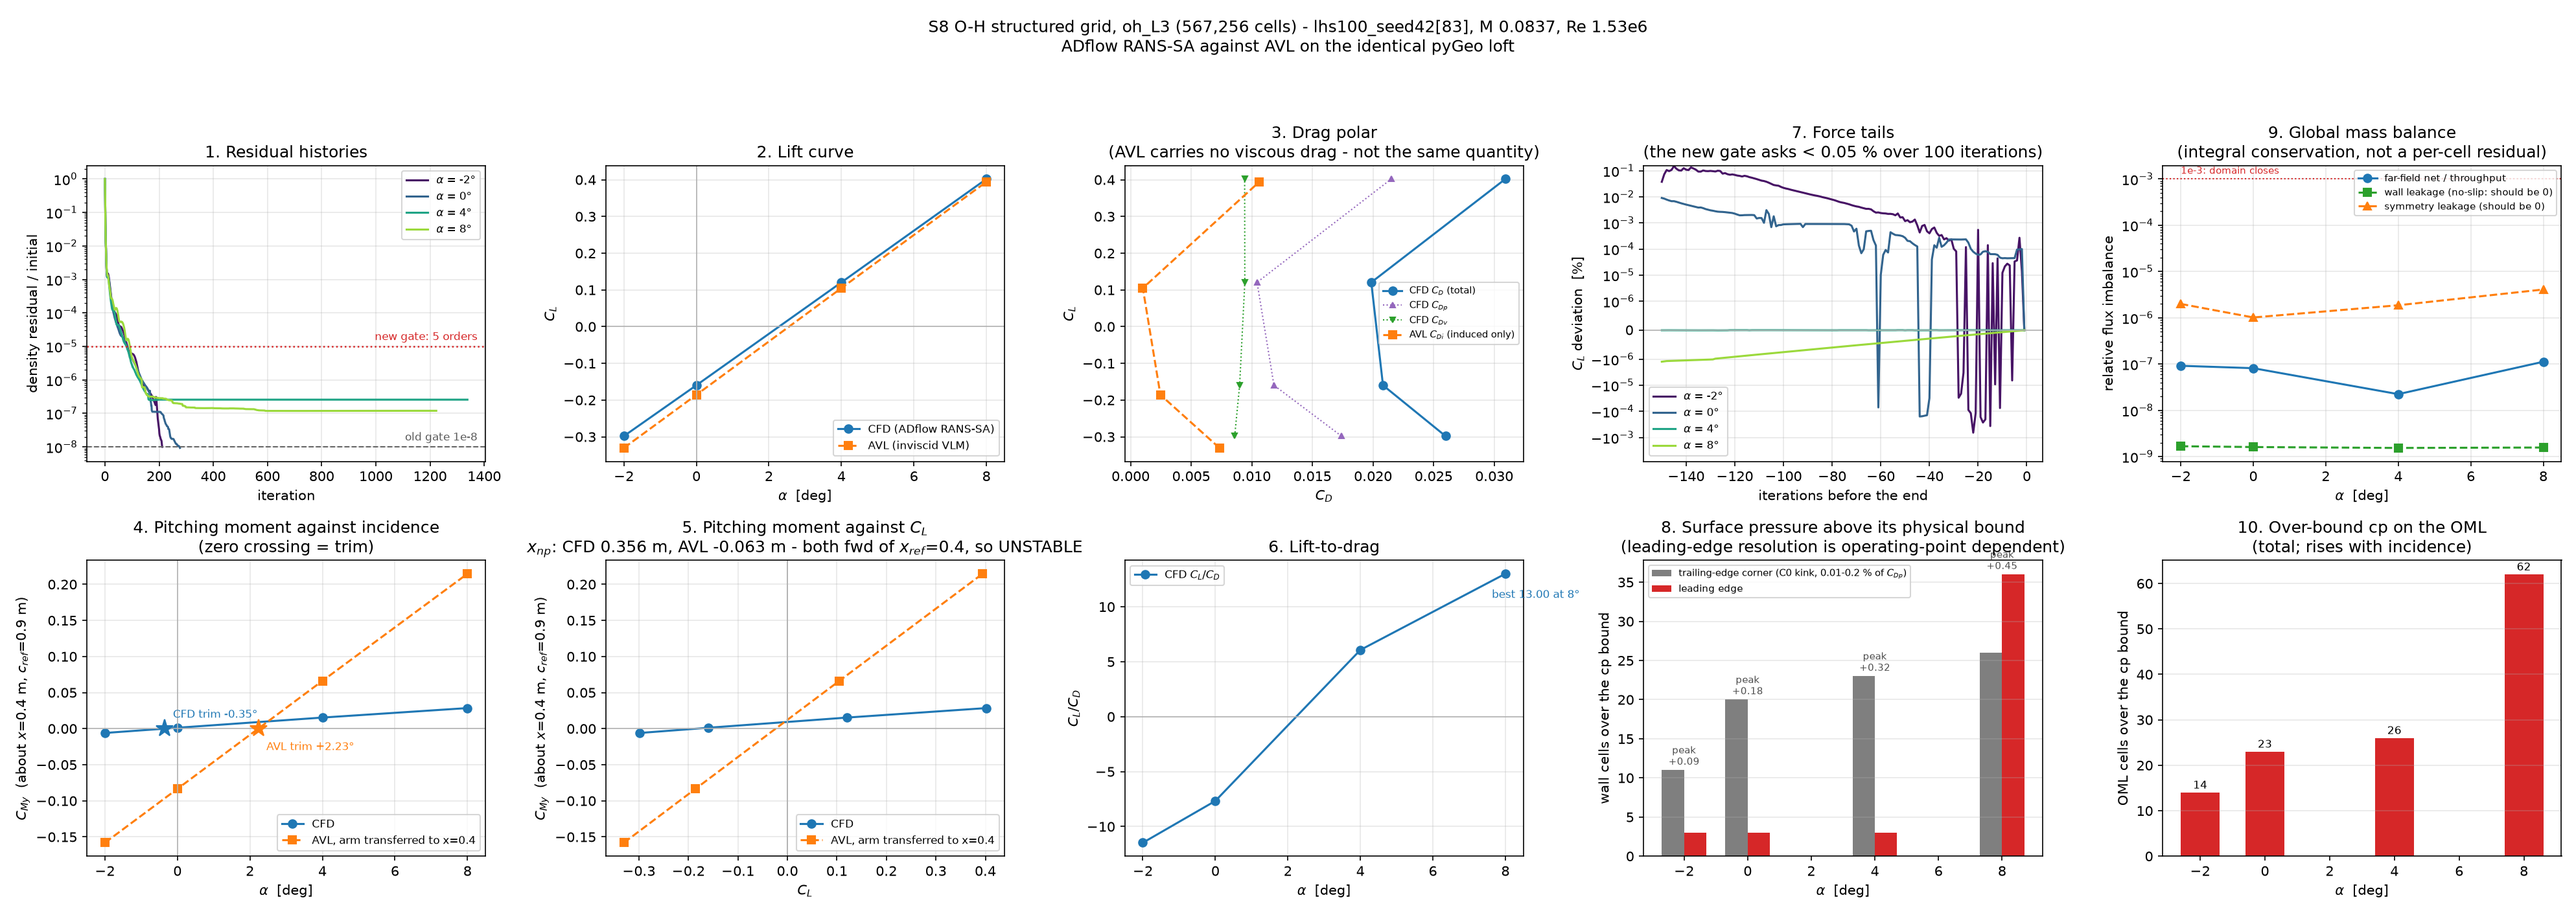
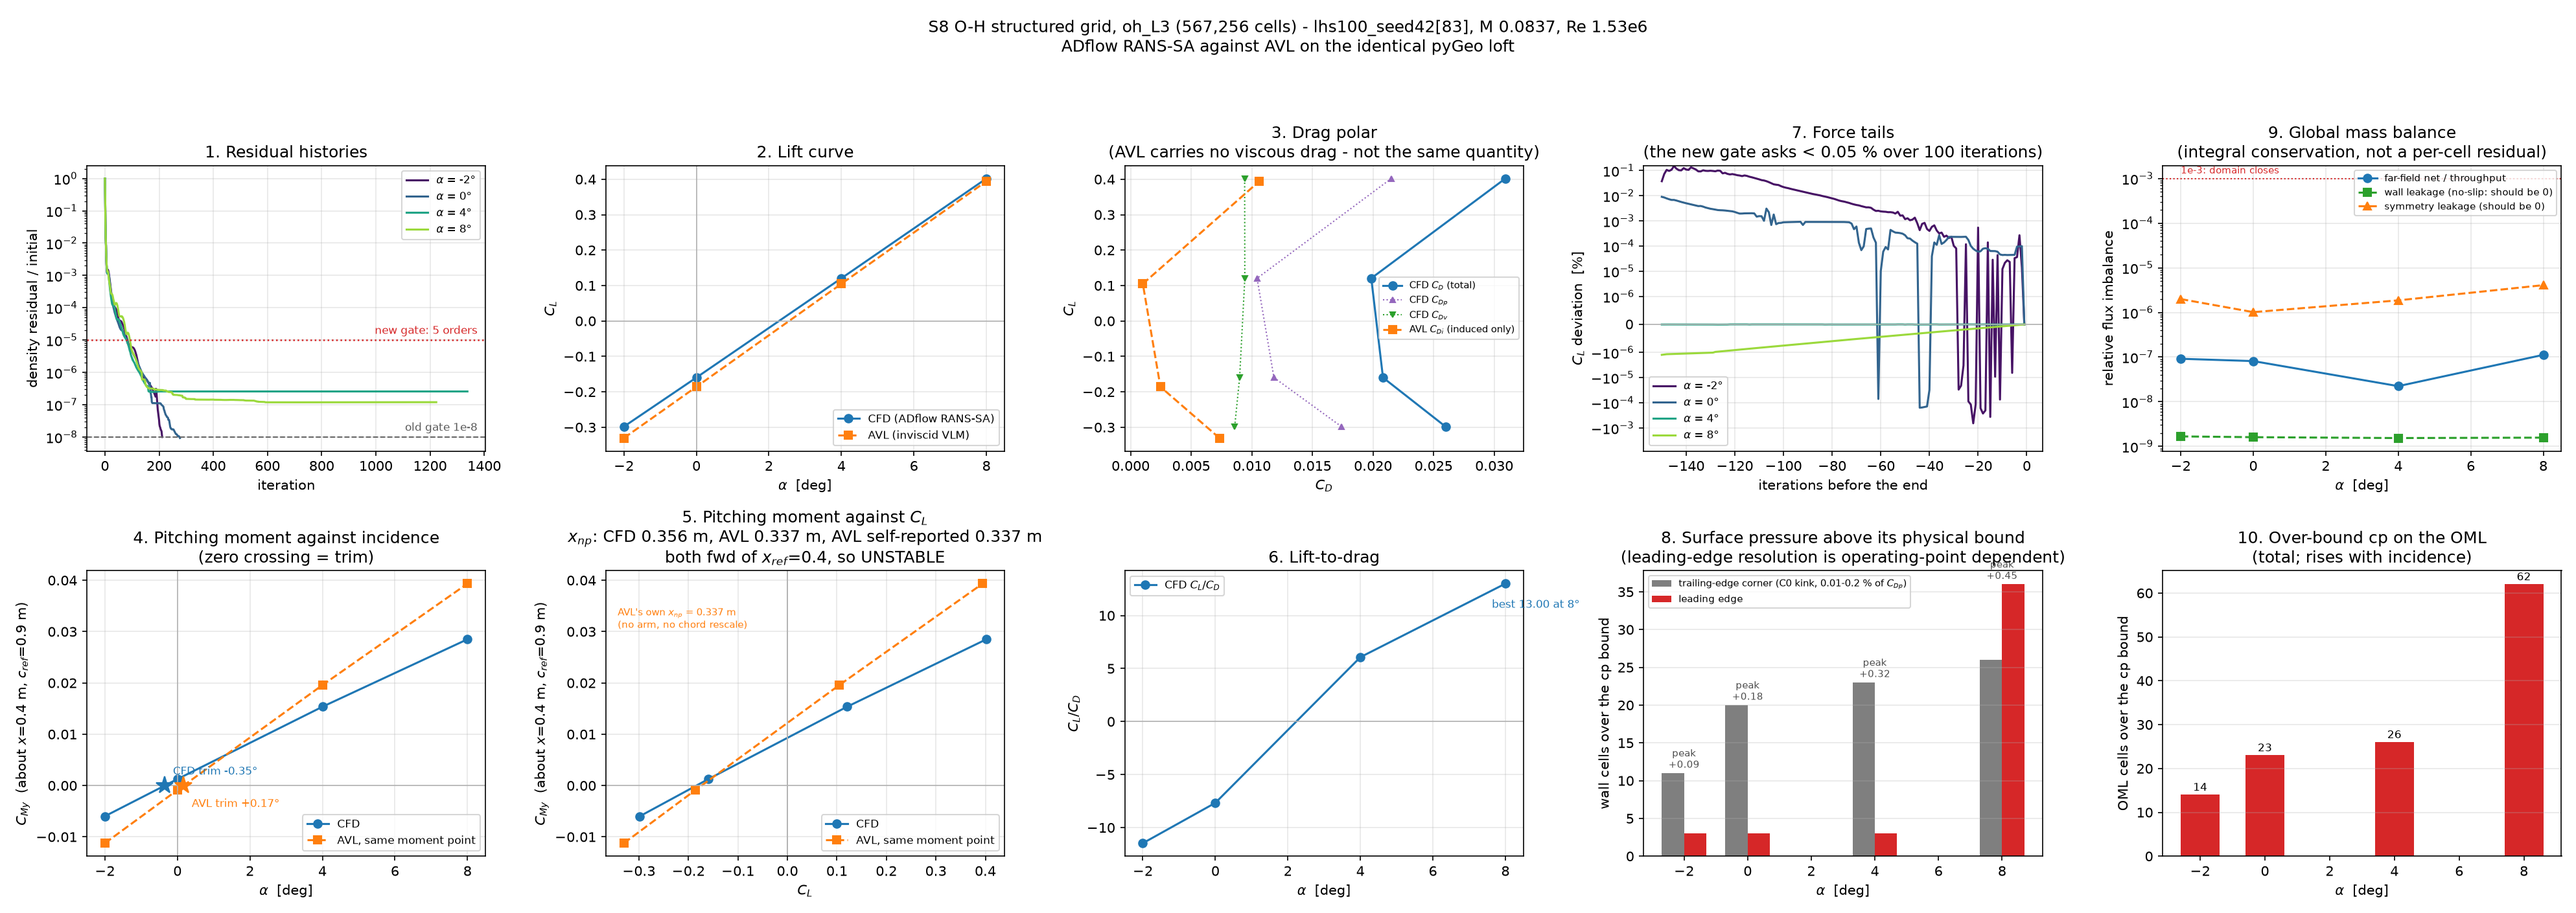
Defect 22: the AVL moment arm was applied twice, and the plot said so
plot_sweep.py decided whether AVL had already taken moments about the CFD
reference by testing for "xref04" in the OUTPUT DIRECTORY NAME. Running
verify_against_avl.py into any other directory therefore applied a transfer arm
on top of one AVL had already applied, because verify_against_avl.py passes
moment_reference_m=(0.4, 0, 0) and has done since it was written -- its own
comment explains why: "a moment comparison should not depend on getting an arm
right by hand".

The intent was right. The provenance was missing: avl_sweep.json recorded
alpha_deg and raw AVL output and NOT the moment reference those coefficients are
about, so a consumer had nothing to key on and someone reached for the path.

What it produced:

                      before        after      AVL self-reported
  AVL x_np          -0.063 m      0.337 m           0.337 m
  CFD x_np           0.356 m      0.356 m
  disagreement      factor ~10    18.5 mm = 3.7 % of MAC
  AVL trim           +2.23 deg    +0.17 deg    (CFD -0.35 deg)

The two codes agree on the neutral point to 3.7 % of MAC, which is the figure
already recorded in STATUS_AND_NEXT_STEPS.md. The plot claimed a factor-of-ten
stability disagreement.

This is defect 17 again (PLAN 0.7): "a reported CFD-vs-AVL stability
disagreement was two sign errors compounding. Hours of reconciling conventions;
the convention-free check settled it in minutes." The convention-free check was
[…]

diff --git a/AERIS_MESH_STUDY/04_strategy_studies/S8_oh_structured/plot_sweep.py b/AERIS_MESH_STUDY/04_strategy_studies/S8_oh_structured/plot_sweep.py
@@ -97,7 +97,28 @@ def main() -> int:
             avl, avl_source = found, base
         if len(found) == len(cfd):
             break
-    matched_reference = "xref04" in avl_source
+    # Whether AVL already took moments about the CFD point is a FACT recorded by
+    # verify_against_avl.py, not something to infer from a directory name. This
+    # read "xref04" in avl_source, so pointing --avl at any other directory made
+    # the arm below get applied a second time on top of an arm AVL had already
+    # applied. The result put the AVL neutral point at x = -0.063 m -- 63 mm
+    # ahead of a leading edge that sits at x = 0 -- and reported a factor-of-ten
+    # stability disagreement where the two codes actually agree to 3.7 % of MAC.
+    # PLAN 0.7: when a sign or a reference is in doubt, do not reason about the
+    # convention, check it.
+    reference_file = Path(avl_source) / "avl_reference.json"
+    if reference_file.exists():
+        matched_reference = bool(json.loads(reference_file.read_text())
+                                 .get("arm_already_applied"))
+        reference_source = "recorded in avl_reference.json"
+    elif "xref04" in avl_source:
+        matched_reference, reference_source = True, "legacy directory-name convention"
+    else:
+        raise SystemExit(
+            f"{avl_source} has no avl_reference.json, so the moment reference AVL "
+            f"used is unknown, and applying or not applying the transfer arm is a "
+            f"coin flip that silently changes the neutral point by 0.4 m. Re-run "
+            f"verify_against_avl.py to record it. Refusing to guess.")
 
     alphas = sorted(cfd)
     cl = np.array([cfd[a]["cl"] for a in alphas])
@@ -202,14 +223,38 @@ def main() -> int:
     # This was written x_ref + slope*c, which put the neutral point on the wrong
     # side of the reference and inverted the stability verdict.
     x_np_cfd = 0.4 - slope * CFD_CREF
+    # AVL's Cm here has been rescaled to the CFD chord, so the arm uses CFD_CREF.
     x_np_avl = 0.4 - np.polyfit(acl, acm, 1)[0] * CFD_CREF if va else None
+    # AVL also REPORTS a neutral point directly, computed from its own
+    # derivatives in its own reference system. It needs no arm, no chord
+    # rescale and no sign convention from us, so it is the independent check on
+    # everything above -- exactly the convention-free measurement PLAN 0.7 says
+    # to reach for instead of reconciling conventions by hand. If the
+    # transferred value and this one disagree, the transfer is wrong.
+    x_np_avl_self = None
+    self_reported = [avl[a].get("x_np") for a in va if avl[a].get("x_np") is not None]
+    if self_reported:
+        x_np_avl_self = float(np.mean(self_reported))
+        if x_np_avl is not None and abs(x_np_avl - x_np_avl_self) > 0.05:
+            print(f"  WARNING: AVL neutral point transferred here is "
+                  f"{x_np_avl:.4f} m but AVL itself reports {x_np_avl_self:.4f} m. "
+                  f"They should agree; the moment transfer is wrong.")
     a3.axhline(0, color="0.7", lw=0.8); a3.axvline(0, color="0.7", lw=0.8)
     a3.set_xlabel(r"$C_L$"); a3.set_ylabel(r"$C_{My}$  (about $x$=0.4 m, $c_{ref}$=0.9 m)")
     a3.axvline(0, color="0.7", lw=0.8)
+    stable = "aft of" if x_np_cfd > 0.4 else "fwd of"
+    verdict = "STABLE" if x_np_cfd > 0.4 else "UNSTABLE"
+    self_txt = (f", AVL self-reported {x_np_avl_self:.3f} m"
+                if x_np_avl_self is not None else "")
     a3.set_title(
         f"5. Pitching moment against $C_L$\n"
-        f"$x_{{np}}$: CFD {x_np_cfd:.3f} m, AVL {x_np_avl:.3f} m - both fwd of "
-        f"$x_{{ref}}$=0.4, so UNSTABLE")
+        f"$x_{{np}}$: CFD {x_np_cfd:.3f} m, AVL {x_np_avl:.3f} m{self_txt}\n"
+        f"both {stable} $x_{{ref}}$=0.4, so {verdict}")
+    if x_np_avl_self is not None:
+        a3.axvline(np.nan)  # keep the legend order stable
+        a3.annotate(f"AVL's own $x_{{np}}$ = {x_np_avl_self:.3f} m\n"
+                    f"(no arm, no chord rescale)",
+                    (0.03, 0.80), xycoords="axes fraction", fontsize=7, color="C1")
     a3.legend(fontsize=8); a3.grid(alpha=0.3)
 
     # 6 lift-to-drag

diff --git a/AERIS_MESH_STUDY/04_strategy_studies/S8_oh_structured/verify_against_avl.py b/AERIS_MESH_STUDY/04_strategy_studies/S8_oh_structured/verify_against_avl.py
@@ -133,6 +133,25 @@ def main() -> int:
         print(f"  alpha {alpha:>5.1f}: status={status}  CL={cl}")
 
     (args.out / "avl_sweep.json").write_text(json.dumps(rows, indent=2, default=str) + "\n")
+    # Record the moment reference that was USED, next to the numbers it applies
+    # to.  Without this the file is a set of moment coefficients about an
+    # unstated point, and a consumer has no way to know whether an arm still
+    # needs applying.  plot_sweep.py guessed from the OUTPUT DIRECTORY NAME
+    # ("xref04" in the path), so running this script into any other directory
+    # silently made it transfer an arm that had already been applied -- which
+    # put the AVL neutral point 63 mm AHEAD of the leading edge and turned a
+    # 3.7 %-of-MAC agreement into an apparent factor-of-ten disagreement.
+    # That is defect 17 again (PLAN 0.7): a stability "disagreement" that was
+    # a convention error, not physics.
+    (args.out / "avl_reference.json").write_text(json.dumps({
+        "moment_reference_m": list(args.moment_reference),
+        "avl_c_ref_note": "AVL reports Cm about the point above, scaled by ITS "
+                          "own c_ref, which is not the CFD's chordRef. Only the "
+                          "chord scale differs once the point is shared.",
+        "cfd_moment_reference_m": [0.4, 0.0, 0.0],
+        "arm_already_applied": True,
+        "set_name": args.set_name, "index": args.index,
+    }, indent=2) + "\n")
     _report(rows)
     return 0
 
